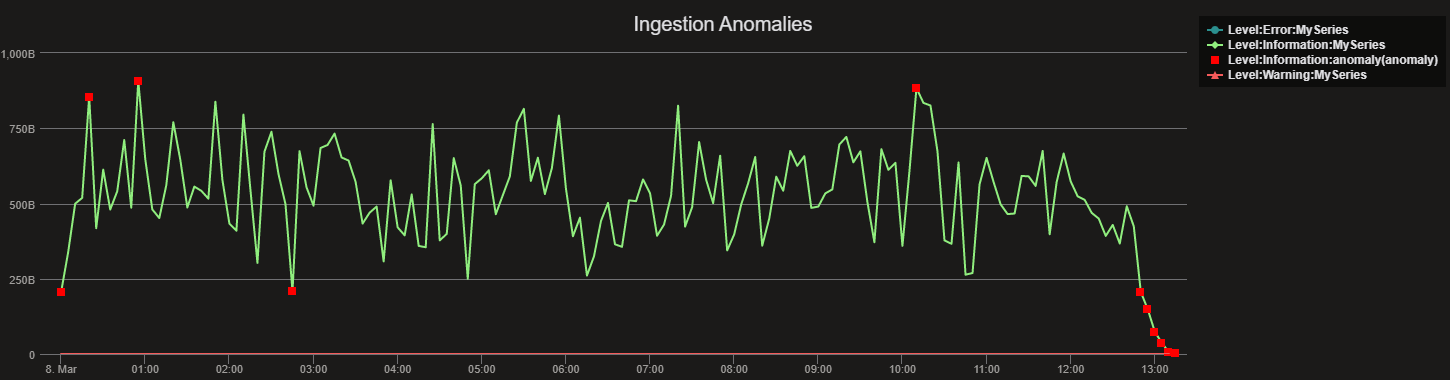
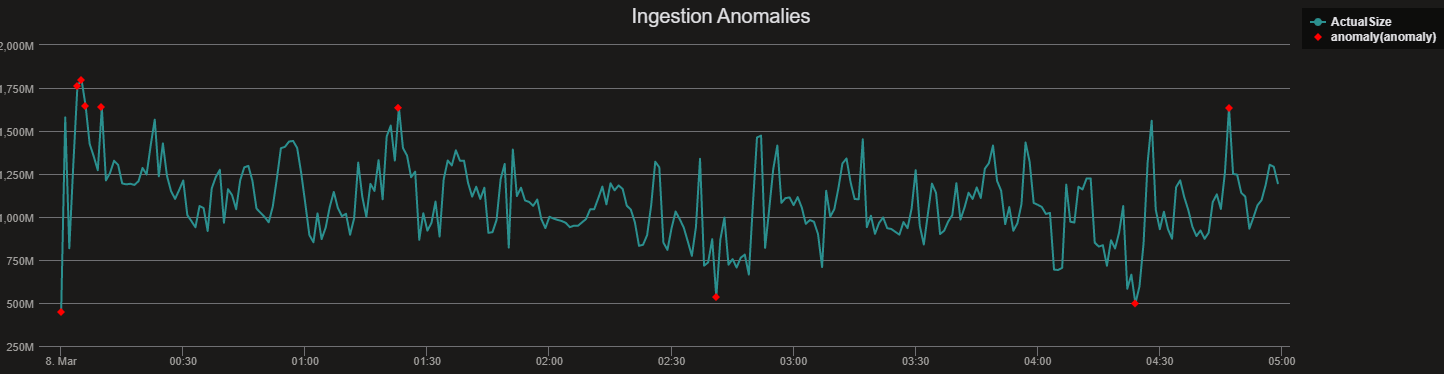
anomaly pic changes

diff --git a/README.md b/README.md
@@ -282,7 +282,7 @@ To get a tabular format of the detected anomalies, you can use the _mv-expand_ o
 ingestionLogs
 | where Component == "INGESTOR_EXECUTER"
 | extend fileSize=tolong(Properties.size)
-| make-series ActualSize=sum(fileSize) on Timestamp step 5min // Creates the time series, listed by data type
+| make-series ActualSize=avg(fileSize) on Timestamp step 1min // Creates the time series, listed by data type
 | extend(AnomalyFlags, AnomalyScore, PredictedSize) = series_decompose_anomalies(ActualSize, -1) // Scores and extracts anomalies based on the output of make-series 
 | mv-expand ActualSize to typeof(double), Timestamp to typeof(datetime), AnomalyFlags to typeof(double),AnomalyScore to typeof(double), PredictedSize to typeof(long) // Expands the array created by series_decompose_anomalies()
 | where AnomalyFlags != 0  // Returns all positive and negative deviations from expected usage
@@ -305,7 +305,7 @@ Using the Dashboard feature of Azure Data Explorer, build a dashboard using outp
 <img src="/assets/images/Challenge8-goto-dashboard.png" width="800">
 
 After you provide dashboard name and click "Next", click on "+ Add tile" next. You will be prompted to add a data source. Click on "+ Data source"
-<img src="/assets/images/Challenge8-goto-dashboard.png" width="800">
+<img src="/assets/images/Challenge8-dashboard-datasource.png" width="800">
 
 Use the cluster URI of your free cluster as the data source.
 <img src="/assets/images/free_cluster_uri.png" width="800">
@@ -323,7 +323,7 @@ ingestionLogs
 
 ---
 #### Challenge 8, Task 1 : Find the anomaly value 🎓
-Parameterize (add Timefilter) and render an Anomaly chart using the following Anomaly detection query. The chart should show values between 2014-03-08T07:00:00 and 2014-03-08T12:00:00.
+Parameterize (add Timefilter) and render an Anomaly chart using the following Anomaly detection query. The chart should show values between 2014-03-08T00:00:00 and 2014-03-08T03:00:00.
 **Question**: What is the anomaly value(y axis) at exactly 00:30 on x axis.
 
 ```
@@ -336,7 +336,7 @@ ingestionLogs
 ```
 ---
 #### Challenge 8, Task 2 : Find the warning percentage 🎓
-Parameterize (add Timefilter) and render a Piechart using the following query. The chart should show values between 2014-03-08T07:00:00 and 2014-03-08T12:00:00.
+Parameterize (add Timefilter) and render a Piechart using the following query. The chart should show values between 2014-03-08T00:00:00 and 2014-03-08T03:00:00.
 
 **Question**: What is the warning % on the piechart?
 
